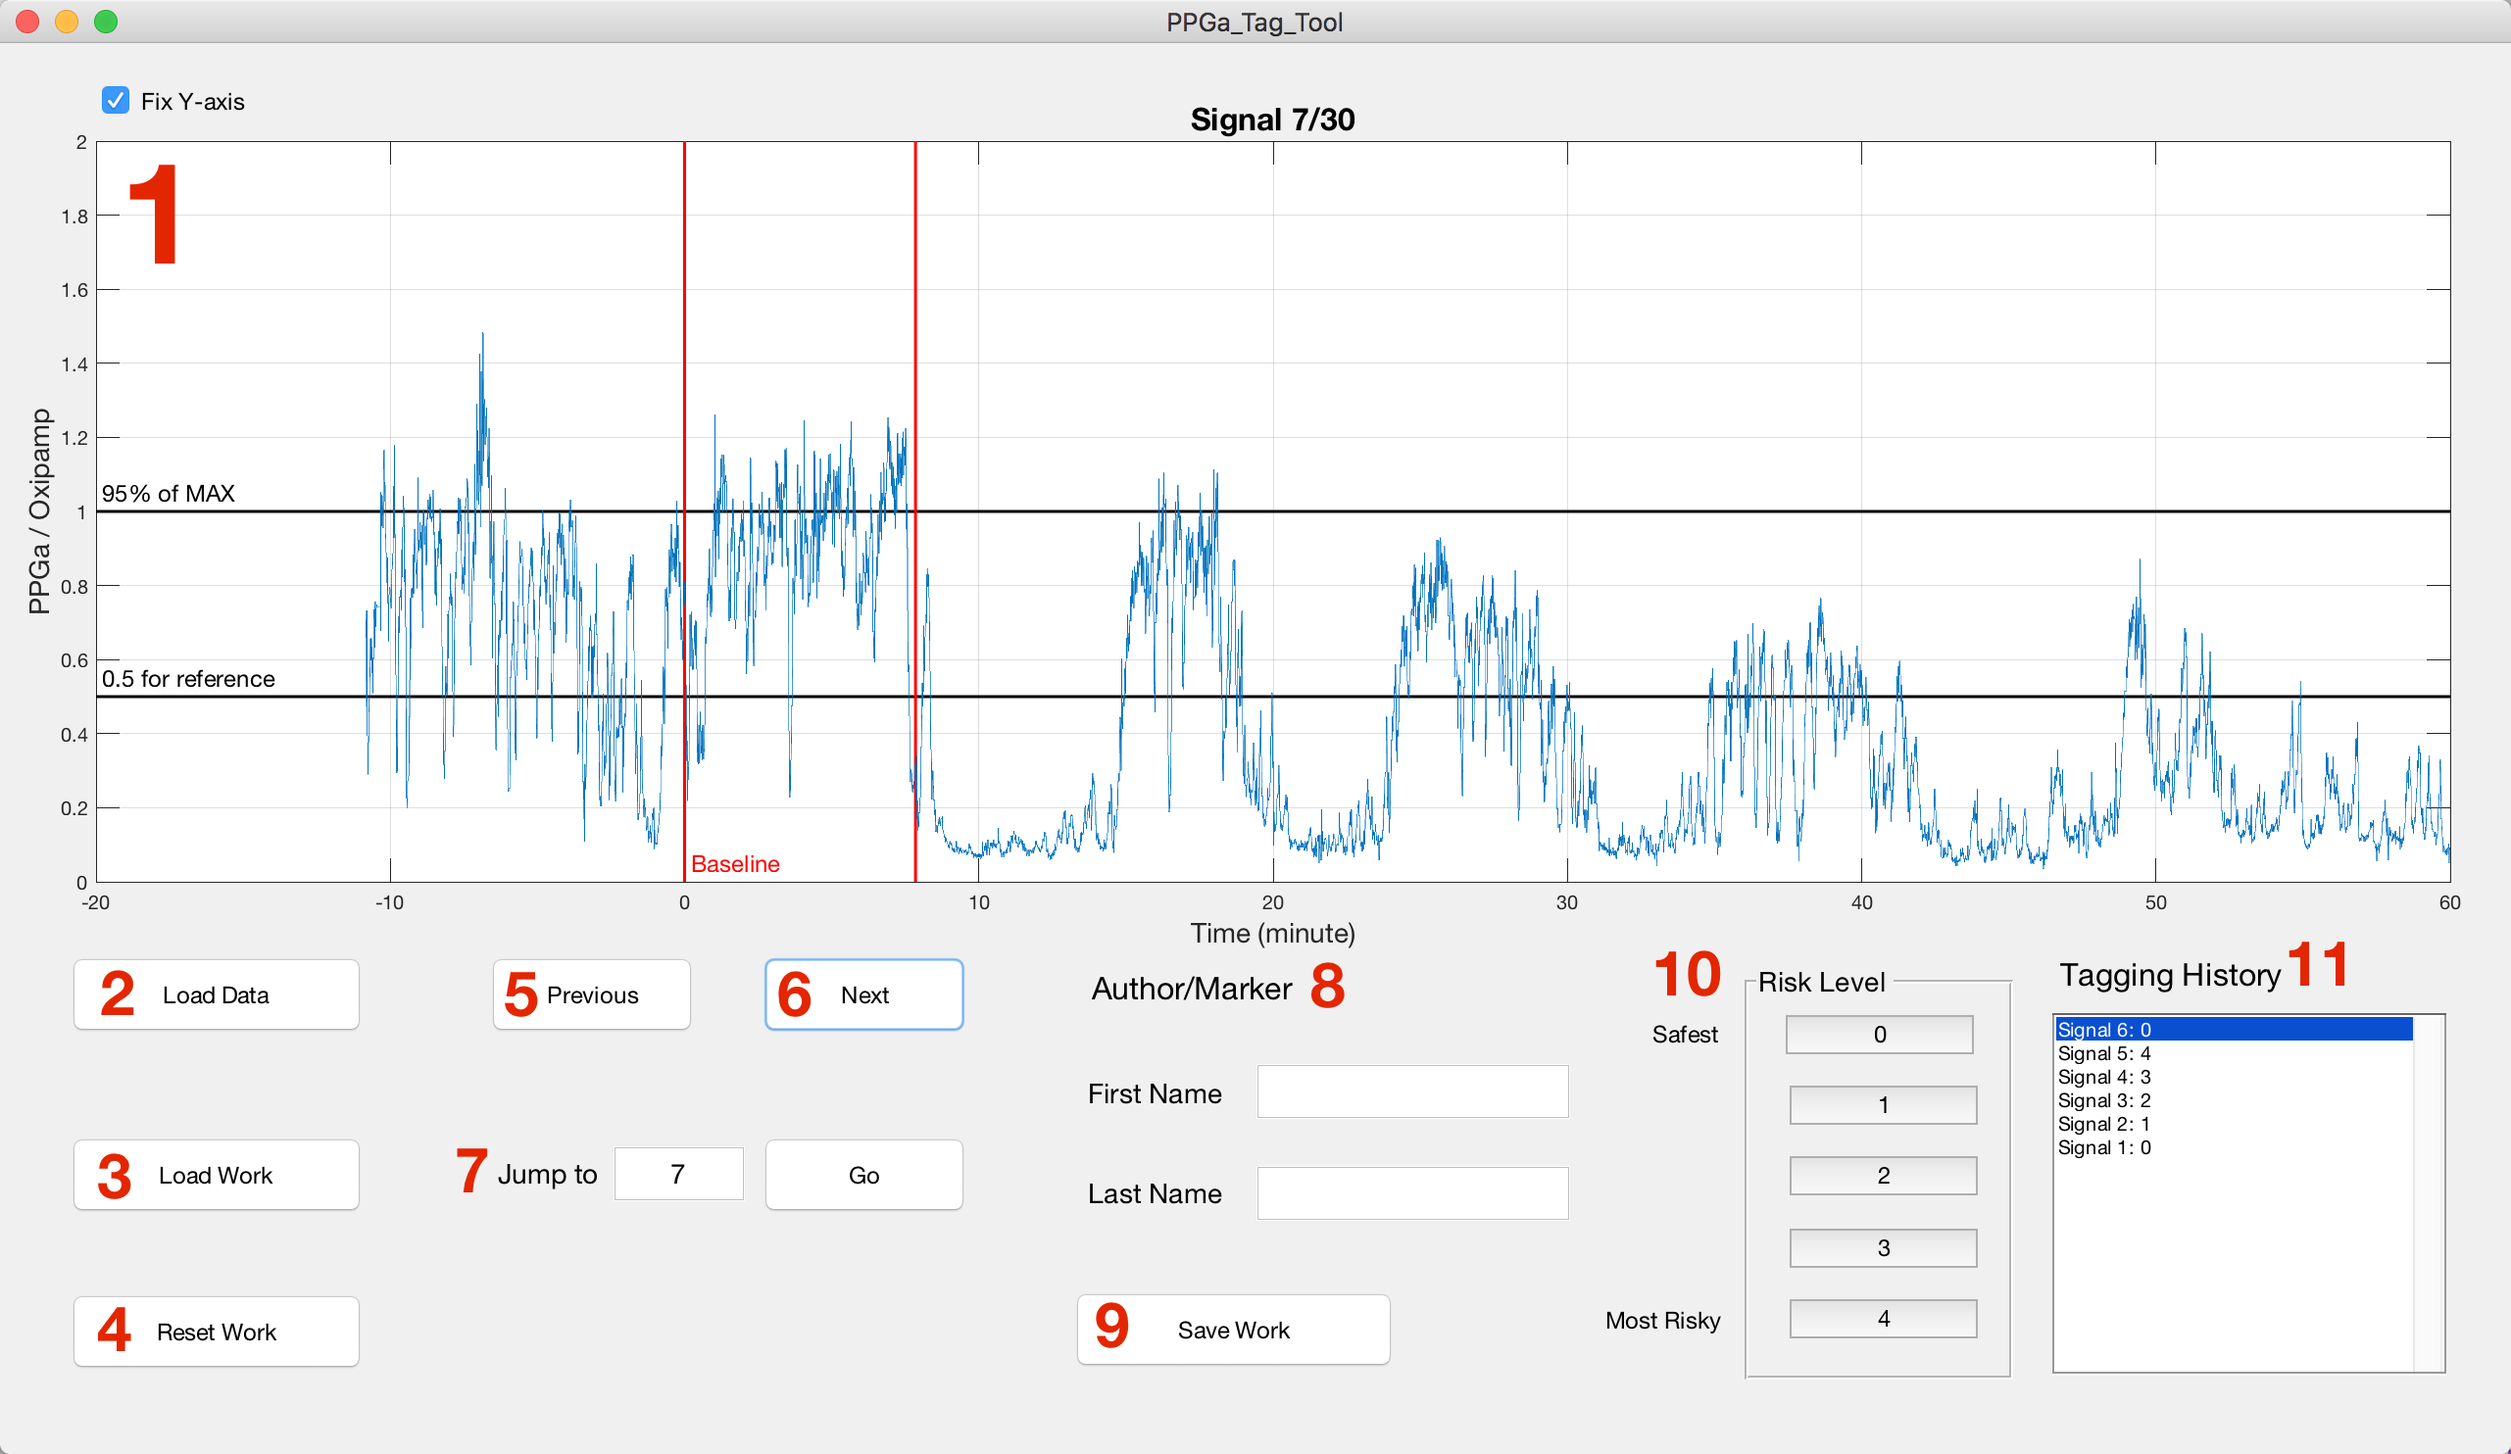
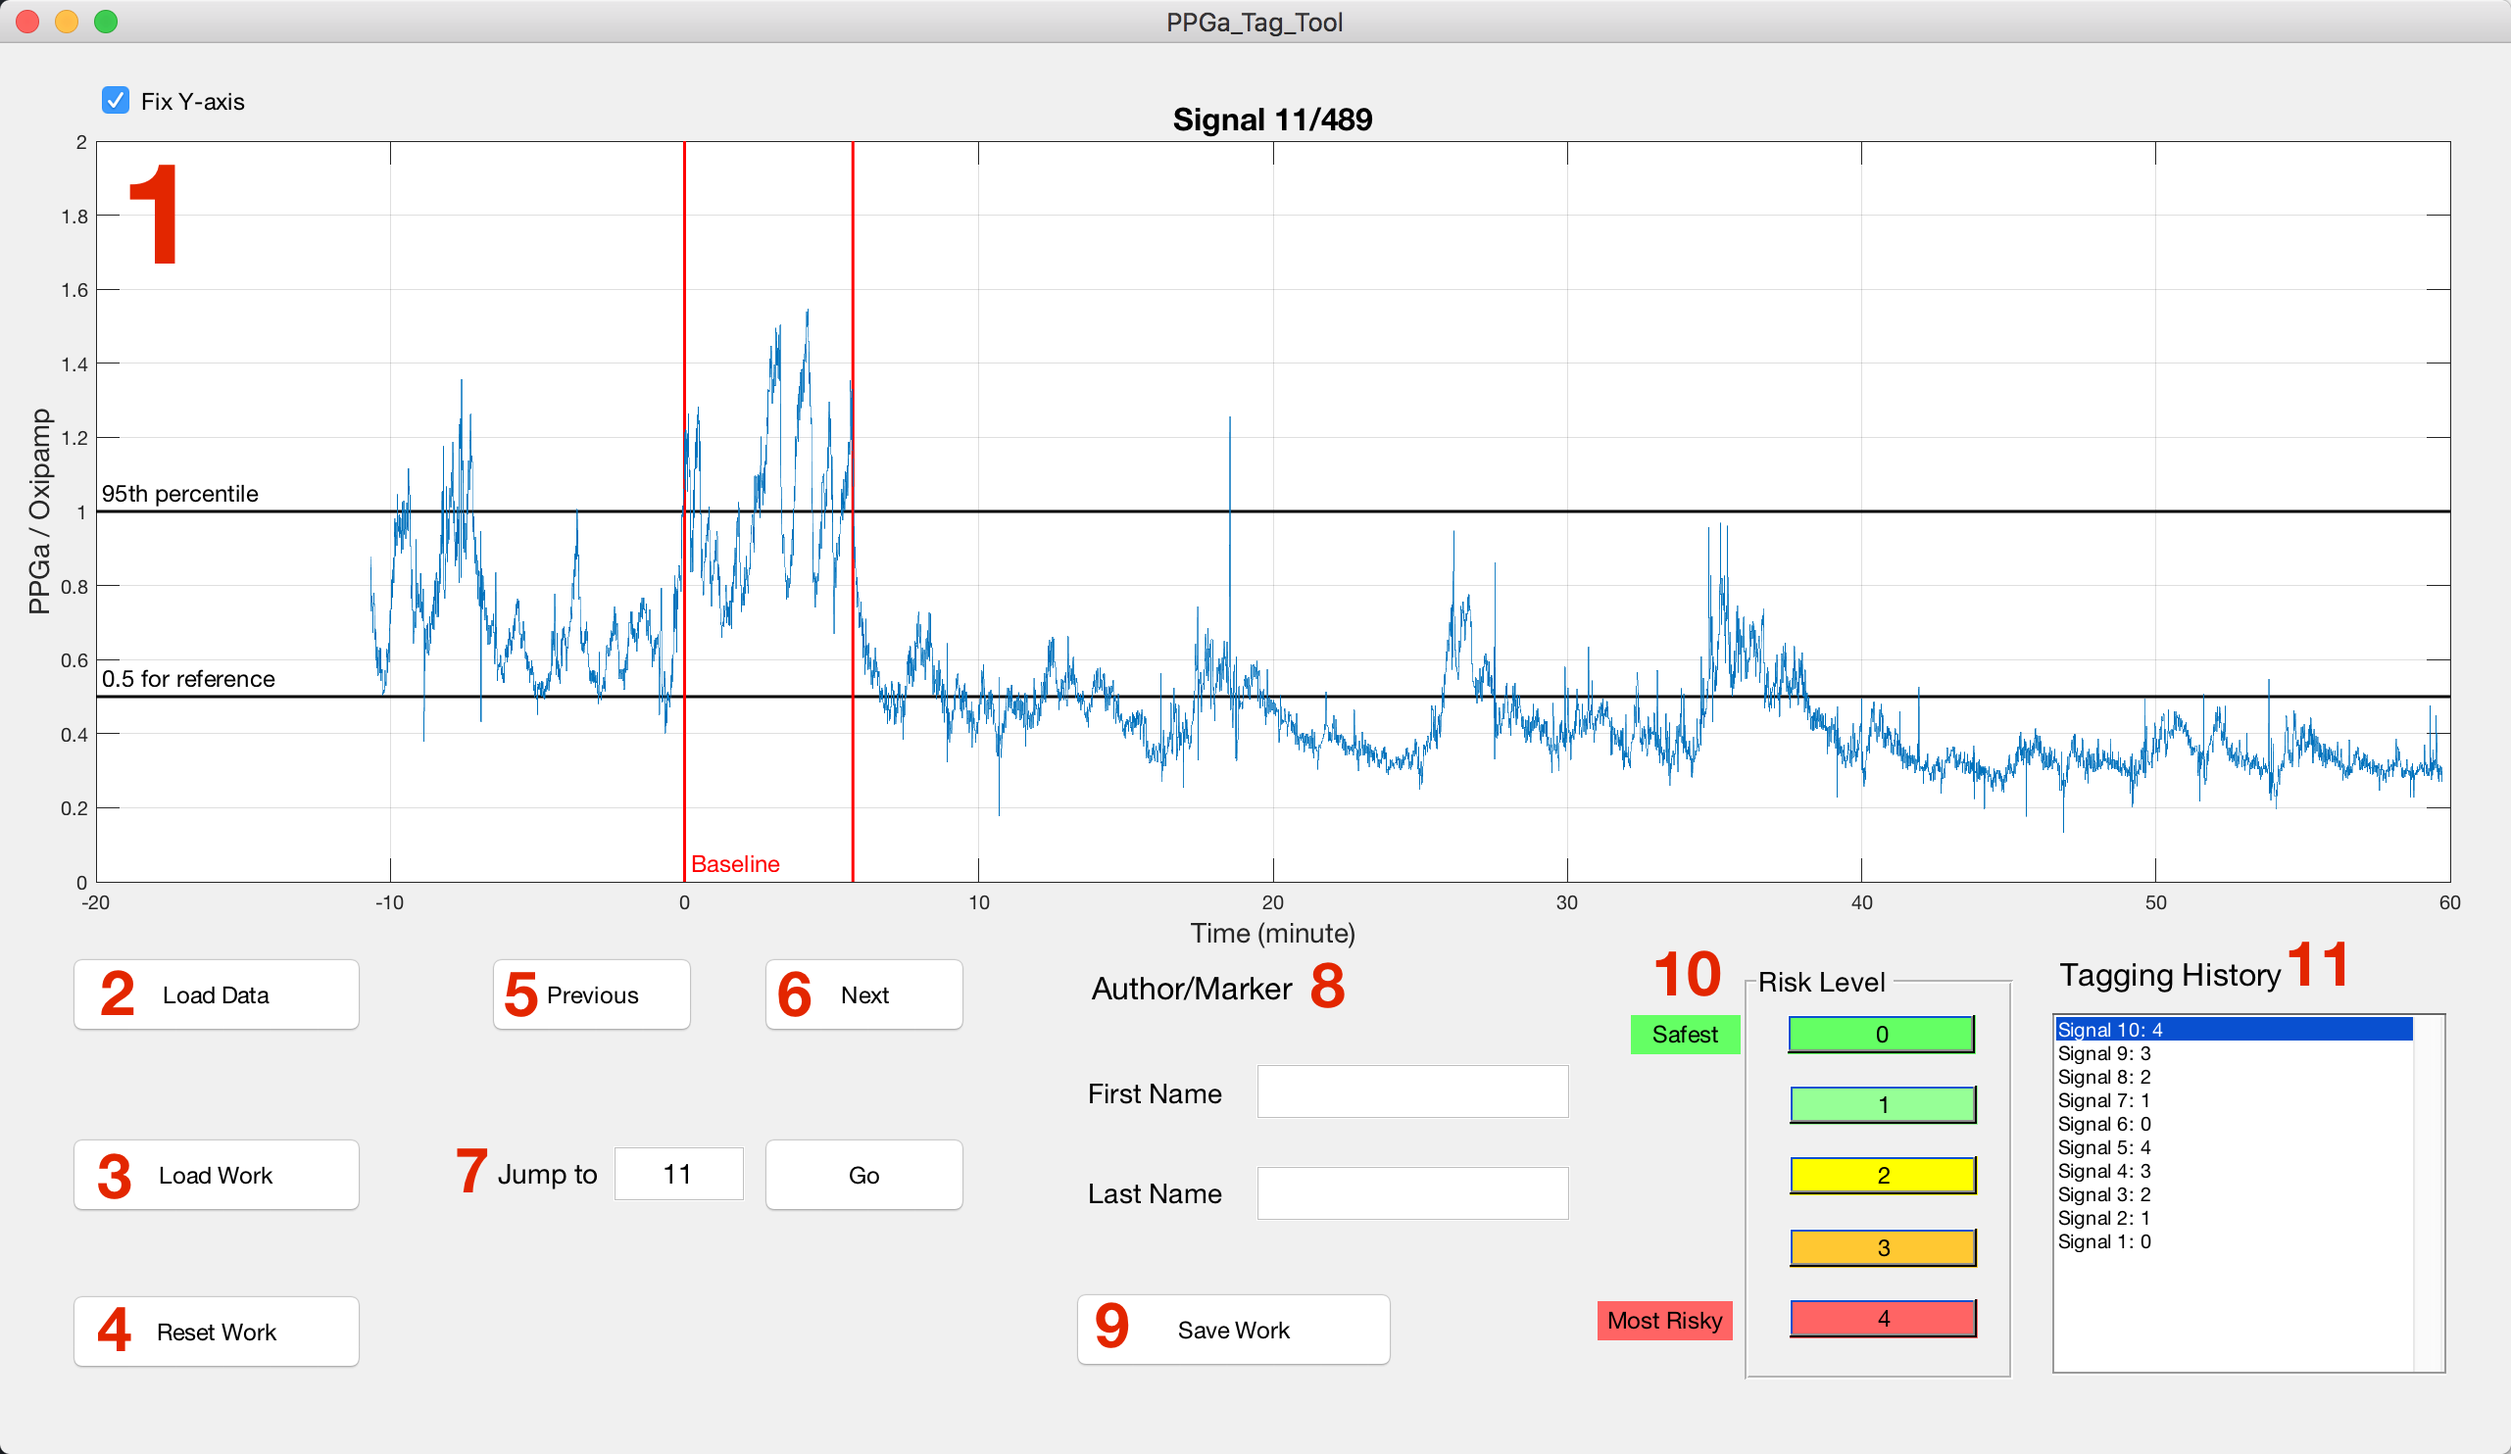
V1.1 update, corrected reference line name, added background color for risk level buttons to make it more intuitive visually

diff --git a/function/UpdatePlot.m b/function/UpdatePlot.m
@@ -25,12 +25,12 @@ if handles.cursor > 0
     
     if get(handles.cbFixY, 'Value')
         axis([-20, 60, 0, 2])
-        text(-19.8, 1.05, '95% of MAX', 'color', 'black', 'Fontsize', 12)
+        text(-19.8, 1.05, '95th percentile', 'color', 'black', 'Fontsize', 12)
         text(-19.8, 0.55, '0.5 for reference', 'color', 'black', 'Fontsize', 12)
         text(0.2, 0.05, 'Baseline', 'color', 'red', 'Fontsize', 12)
     else
         axis([-20, 60, 0, 1.1*MAX])
-        text(-19.8, 1+0.025*MAX, '95% of MAX', 'color', 'black', 'Fontsize', 12)
+        text(-19.8, 1+0.025*MAX, '95th percentile', 'color', 'black', 'Fontsize', 12)
         text(-19.8, 0.5+0.025*MAX, '0.5 for reference', 'color', 'black', 'Fontsize', 12)
         text(0.2, 0.025*MAX, 'Baseline', 'color', 'red', 'Fontsize', 12)
     end

diff --git a/README.md b/README.md
@@ -1,17 +1,22 @@
-# MATLAB-Data-Tagging-Tool-GUI (Version 1.0)
+# MATLAB-Data-Tag-Tool-GUI (Version 1.1)
 This tool was developed in MATLAB 9.4.0.813654 (R2018a)
 ## Update log
+#### Version 1.1
+- Correct the name of the reference line at 1.0 from 95% maximum to 95th percentile.  
+- Add background color to risk level buttons to make them more intuitive visually, with red indicating risky and green indicating safe.  
+
 #### Version 1.0
-Fixed a bug when loading work with different length of preview_sample.  
-Automatic default work path optimized.  
-Fields in the saved work file has been updated, and the saved work file from beta version is not compatible with the current tool. Please use the newest version to tag the actual data (to be sent out soon).
+- Fixed a bug when loading work with different length of preview_sample.  
+- Automatic default work path optimized.  
+- Fields in the saved work file has been updated, and the saved work file from beta version is not compatible with the current tool. Please use the newest version to tag the actual data (to be sent out soon).
+
 ## Purpose of the GUI Tool
 This MATLAB GUI was developed for tagging photoplethysmogram amplitude signals with risk levels, as a preparation for future analysis of the data with machine learning & deep learning techniques.  
 The data-tagging Tool can be modified for other tagging tasks.  
 For users who do not have access to data, you can play with *fake_data_for_testing.mat* to learn how this GUI tool works.
 ## General Work Flow
 1. Launch the GUI tool by running *PPGa_Tag_Tool.m* in MATLAB.  
-2. All signals are shown in random orders, and normalized to 95% maximum value of themselves. After you load the data, you will be first shown some preview signals from a wide range of different risk levels to give you an overall impression of the signals. The preview signals will have non-positive index number (shown in the title of the signal plot) and the risk level tagging tools will be disabled during preview.
+2. All signals are shown in random orders, and normalized to 95th percentile value of themselves. After you load the data, you will be first shown some preview signals from a wide range of different risk levels to give you an overall impression of the signals. The preview signals will have non-positive index number (shown in the title of the signal plot) and the risk level tagging tools will be disabled during preview.
 3. As you move forward to the signals to be tagged (signals with a positive index number), the risk level tagging tools will be enabled, and you can begin tagging the signals with either mouse clicks or hotkeys.
 4. Each signal will be repeated twice (for a total time of 3, for each signal) for consistency check.
 5. You can save your work at any time and finish them later. To save your work, first and last name are needed.
@@ -21,7 +26,7 @@ For users who do not have access to data, you can play with *fake_data_for_testi
 ![alt text](files_for_readme/GUI_objects_no_Mosaic.png 'GUI of the data-tagging tool')
 #### 1. Signal plot
 Horizontal axis is __identical__ for all signals, ranging from -20 min to 60 min, with baseline start at 0 min. Two red reference lines are the start and the end of the true baseline.  
-Vertical axis is __identical__ for all signals by default, ranging from 0 to 2, but you can set it to be flexible by uncheck the "Fix Y-axis" checkbox. Two black reference lines are 95% maximum value (which is always 1) and 0.5 respectively.  
+Vertical axis is __identical__ for all signals by default, ranging from 0 to 2, but you can set it to be flexible by uncheck the "Fix Y-axis" checkbox. Two black reference lines are 95th percentile (which is always 1) and 0.5 respectively.  
 Current signal index number and total number of signals is shown in the title of the plot.  
 Preview signals have a non-positive index number while signals to tag have a positive index number.
 #### 2. Load Data
